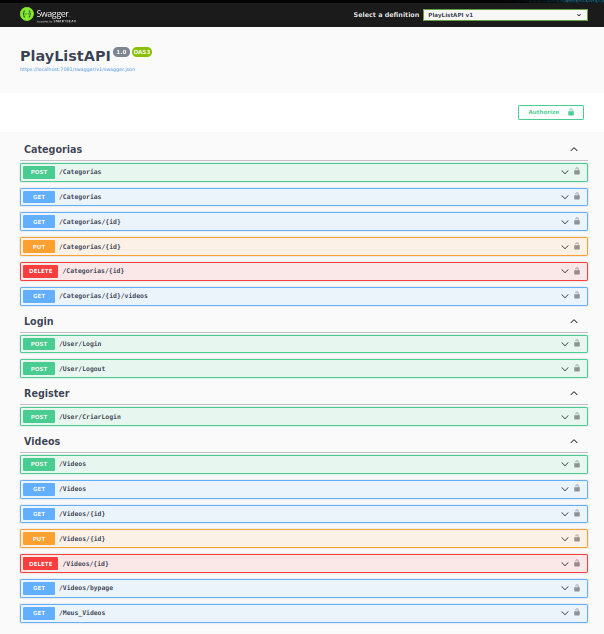
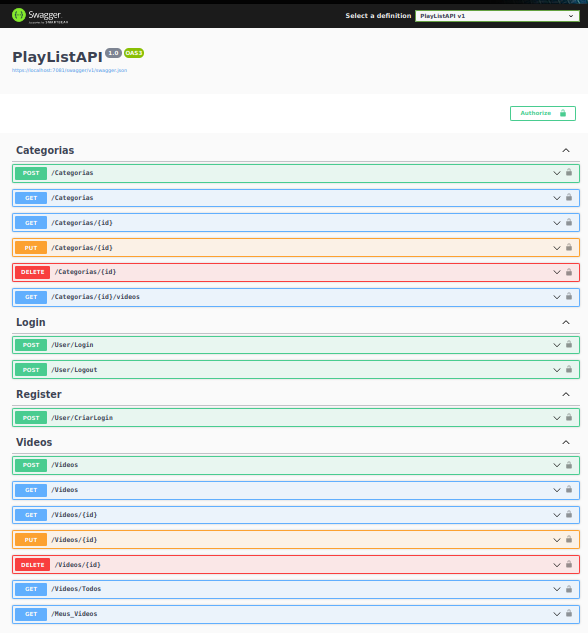
Update

diff --git a/README.md b/README.md
@@ -1,6 +1,4 @@
-# AluraFlix - API
-
-<img src="./img/AluraFlix-Logo.png">
+# VideoPlaylist - API
 
 A plataforma que permiti aos usuários montar playlists com links para seus vídeos preferidos, separados por categorias.
 
@@ -24,6 +22,8 @@ O objetivo do Alura Challenge é aplicar os conhecimentos obtidos através dos c
 - Apenas o adminstrador pode cadastrar, alterar ou deletar uma categoria.
 - Há um novo endpoint para acessar apenas os videos do próprio usuário.
 - Apenas o proprietário do video pode alterar ou deletar um video.
+- Implementado soft delete para videos.
+- Implementada rota para que o adminstrador tenha acesso a todos os videos, incluindo os videos deletados.
 
 ### História
 
@@ -120,16 +120,16 @@ Crie um arquivo `.env` na raiz do projeto PlayListAPI seguindo o modelo do arqui
 
 # Videos
 
-| Método | Autorização | Rota           | Descrição                                    | Body Params | Query Params              |
-| ------ | ----------- | -------------- | -------------------------------------------- | ----------- | ------------------------- |
-| POST   | User        | /videos        | Cadastra novo video                          | JSON        | -                         |
-| GET    | -           | /videos/`{id}` | Retorna um video por id numérico             | -           | -                         |
-| GET    | -           | /videos        | Retorna todos os videos                      | -           | -                         |
-| GET    | -           | /videos        | Retorna videos com título informado          | -           | ?search=`Titulo do video` |
-| GET    | -           | /meus_videos   | Retorna lista de videos do usuário logado    | -           |                           |
-| GET    | -           | /videos/bypage | Retorna lista de videos paginado             | -           | ?page=`1`&pageSize=`5`    |
-| PUT    | User        | /videos/`{id}` | Permite atualizar um ou mais dados do video. | JSON        | -                         |
-| DELETE | User        | /videos/`{id}` | Exclui um video indicado pelo id.            | -           | -                         |
+| Método | Autorização | Rota           | Descrição                                    | Body Params | Query Params                                    |
+| ------ | ----------- | -------------- | -------------------------------------------- | ----------- | ----------------------------------------------- |
+| POST   | User        | /videos        | Cadastra novo video                          | JSON        | -                                               |
+| GET    | -           | /videos        | Retorna lista de videos paginado             | -           | ?page=`1`&pageSize=`5`                          |
+| GET    | -           | /videos        | Retorna videos com título informado          | -           | ?page=`1`&pageSize=`5`&search=`Titulo do video` |
+| GET    | -           | /videos/`{id}` | Retorna um video por id numérico             | -           | -                                               |
+| GET    | User        | /meus_videos   | Retorna lista de videos do usuário logado    | -           |                                                 |
+| PUT    | User        | /videos/`{id}` | Permite atualizar um ou mais dados do video. | JSON        | -                                               |
+| DELETE | User        | /videos/`{id}` | Exclui um video indicado pelo id.            | -           | -                                               |
+| GET    | Admin       | /videos/Todos  | Retorna todos os videos incluindo deletados. | -           | -                                               |
 
 <br><br>
 
